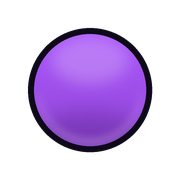
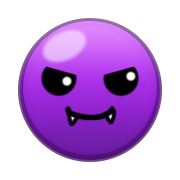
feat: 아트 2차 납품 투입 — 블록 간격·셀 판·큰 버튼 3종 (C143)
⚠이 커밋은 다른 세션이 작업 중이던 미커밋 변경을 그대로 묶은 것이다(track/stage 병합을 막고
있어 먼저 확정). 내용은 코드 주석에 적힌 그대로이고, 작업자의 의도를 넘겨 짚어 고친 것은 없다.

· 블록 간격 6px → 2px — 납품본 v2가 180 캔버스에 본체 176(여백 2px씩). 레퍼런스 실측도
  1.7px로 거의 붙어 있다. 간격은 코드(BLOCK_PAD)가 아니라 그림의 여백이 쥔다.
· 셀 판(cell.png)을 **불투명 전면**으로 — 칸 사이 홈을 그림이 칠해 갖는다. 뚫어 두면 뒤에
  오는 것에 따라 격자 밝기가 흔들리고, 존 색 전환이 있어 실제로 그랬다. 이웃 두 칸의 여백이
  합쳐져 홈 3px = 블록 간격(2px)보다 넓은데 의도다(레퍼런스도 홈 2.7 > 간격 1.7).
  생성기 = tools/make_cell_plate.py
· 큰 버튼 3종(btn_lg / _press / _off) 신규 + 9-slice 마진 48/56 → 32. 납품본 라운드 반경이
  22 텍스처px인데 마진을 그보다 크게 잡으면 세로 그라데이션의 위아래가 고정돼 가운데만 늘어나
  이음매에 기울기 꺾임이 생긴다.
· RIM_PX 3 → 1 — 강조 테 두께를 좁아진 블록 여백에 맞춤(옆 칸 침범 방지).
· tools/btn_states_shot.gd — 버튼 3상태 확인용 샷 도구.

diff --git a/tools/make_cell_plate.py b/tools/make_cell_plate.py
@@ -1,0 +1,43 @@
+#!/usr/bin/env python3
+"""빈 셀 판 생성 — art/cell.png.
+
+레퍼런스(Block Blast 계열) 실측을 그대로 옮긴 물건이다. 왜 아트가 아니라 코드로 만드나:
+**그릴 게 없다.** 레퍼런스의 빈 칸은 셀 안쪽 121px을 훑어도 색이 ±2밖에 안 움직인다
+(그라데이션·하이라이트·텍스처 전부 0). 평면 사각형 + 라운드 + 어두운 홈이 전부다.
+
+⚠**투명 여백이 아니라 홈을 칠한다**(캔버스 끝까지 불투명). 칸 사이를 뚫어 두면 뒤에 오는 것에
+  따라 격자가 밝아졌다 어두워졌다 한다 — 존 색 전환(C_BG_PB)이 있어서 실제로 흔들린다.
+  홈을 그림이 쥐면 배경이 뭐든 홈으로 읽힌다.
+
+기하는 디자이너 v2 납품본과 같다: 타일이 캔버스 가장자리에서 3px 물러나 있어 이웃과 맞대면
+6 텍스처px = 화면 3px 홈이 된다(레퍼런스 실측 2.7px).
+
+    python3 tools/make_cell_plate.py
+    godot --path . --import       # 새 PNG는 1회 필요
+"""
+from PIL import Image, ImageDraw
+
+SIDE = 180
+SS = 4                 # 슈퍼샘플 배율 — 라운드 모서리 계단 제거
+GROOVE = (27, 34, 64)  # 홈 #1B2240 — 타일보다 어둡다(밝은 테가 아니라 파인 홈이어야 한다)
+FACE = (33, 40, 74)    # 타일 면 #21284A
+INSET = 3              # 캔버스 가장자리 → 타일. 이웃과 맞대면 홈 폭이 이 값의 2배가 된다
+RADIUS = 26            # 셀의 ~15%. 레퍼런스 실측(134px 셀에 반경 20)과 같은 비율
+
+OUT = "art/cell.png"
+
+
+def main() -> None:
+    im = Image.new("RGB", (SIDE * SS, SIDE * SS), GROOVE)
+    d = ImageDraw.Draw(im)
+    d.rounded_rectangle(
+        [INSET * SS, INSET * SS, (SIDE - INSET) * SS - 1, (SIDE - INSET) * SS - 1],
+        RADIUS * SS,
+        fill=FACE,
+    )
+    im.resize((SIDE, SIDE), Image.LANCZOS).save(OUT)
+    print(f"wrote {OUT}  {SIDE}x{SIDE}  face={FACE} groove={GROOVE} inset={INSET} r={RADIUS}")
+
+
+if __name__ == "__main__":
+    main()
